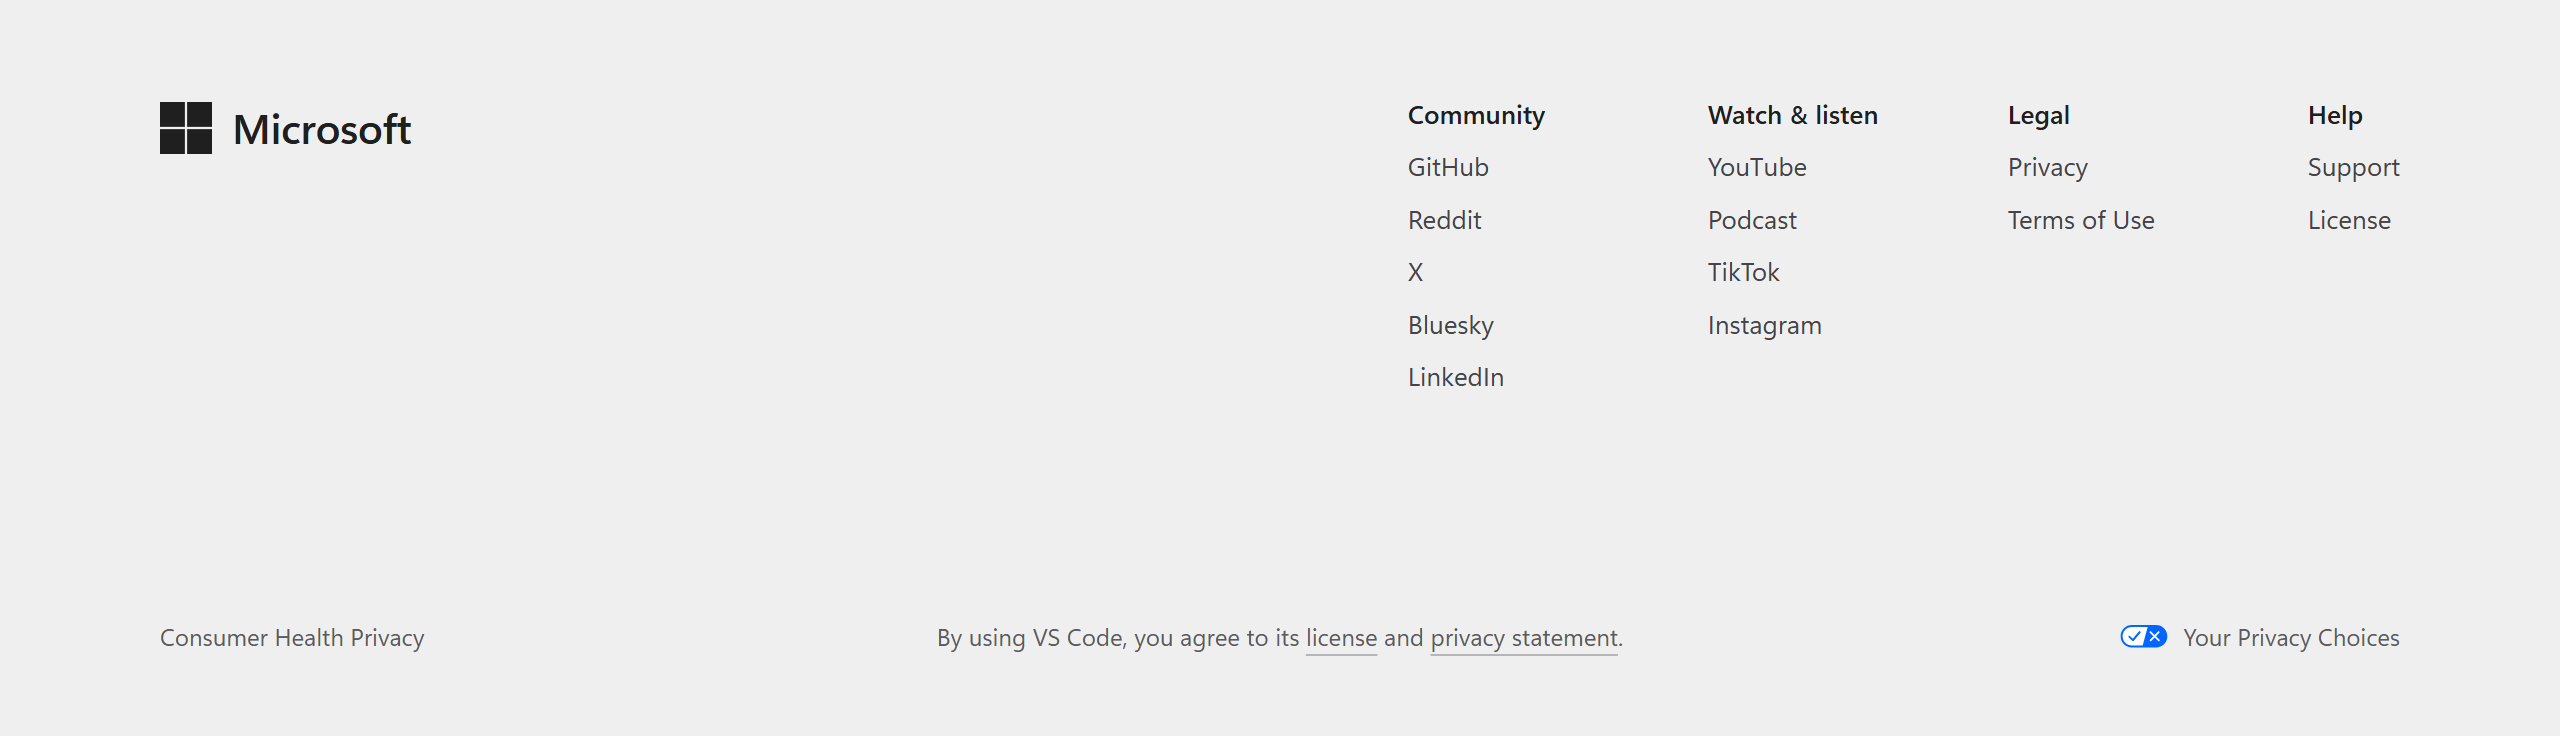
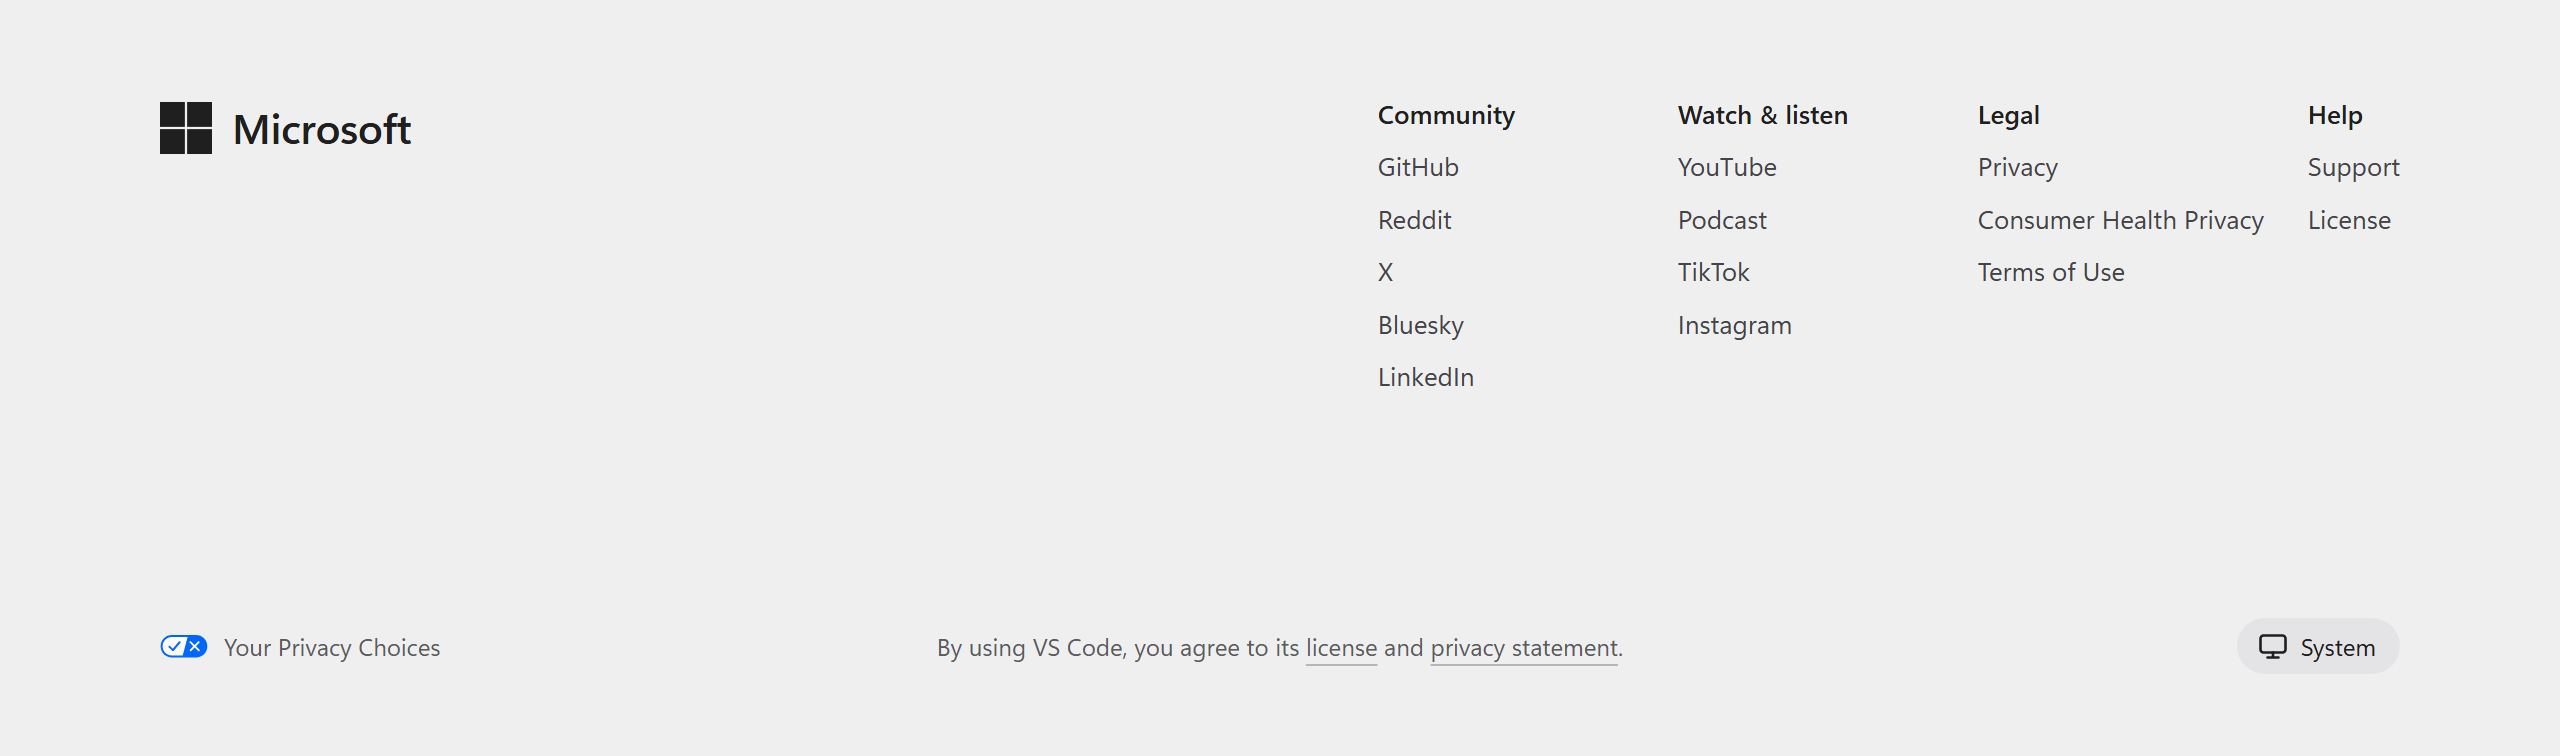
Ready the theme menu for handoff
AGENTS.md now covers the theme menu: how it works, recording the site's
theme setup, adding the head script and theme.js, sharing one setting
with any existing theme control, mapping dark colours, what to do if the
site has no dark styles yet, and theme checks in the checklist. The
README describes the theme menu as part of the design. Reference images
are re-rendered, with two new ones showing the menu open. The
work-in-progress and stop notes are gone.

diff --git a/AGENTS.md b/AGENTS.md
@@ -1,21 +1,32 @@
 # Agent instructions: replace the VS Code website footer
 
-> **Stop if you are on branch `theme-switcher`.** It adds a theme menu that these instructions do not cover yet. Use the `main` branch.
-
 Your task is to replace the footer on the VS Code website (code.visualstudio.com) with the footer in this repository. Work in the website's codebase. Use this repository as the reference.
 
-**Requirement: the footer's background colour and text colour must match the existing website.** The colours in `footer.css` are placeholders from the design mockups. You will look up the site's real colours in step 2 and apply them in step 5.
+The new footer includes a **theme menu** (System, Light, Dark) in its bottom-right corner. The menu sets the theme for the whole site, not only the footer.
+
+**Requirement: the footer's background colour and text colour must match the existing website.** The colours in `footer.css` are placeholders from the design mockups. You will look up the site's real colours in step 2 and apply them in step 6.
 
 ## What is in this repository
 
 | File | Use |
 | --- | --- |
-| `footer.html` | The new footer markup. Copy only the `<footer>` element between the `FOOTER START` and `FOOTER END` comments. The rest of the file is a demo page. |
-| `footer.css` | Every style the footer needs: colour and font tokens, desktop layout, and mobile layout (`@media (max-width: 760px)`). |
-| `images/desktop.png`, `images/mobile.png` | The layout to match, at 1280 px and 390 px. The colours in these images are placeholders; use the site's colours (steps 2 and 5). |
+| `footer.html` | The new footer markup. Copy only the `<footer>` element between the `FOOTER START` and `FOOTER END` comments. The one-line `<script>` in its `<head>` is also part of the footer (step 5). The rest of the file is a demo page. |
+| `footer.css` | Every style the footer needs: colour and font tokens (light and dark), desktop layout, mobile layout (`@media (max-width: 760px)`) and the theme menu. |
+| `theme.js` | The theme menu: saves the choice, applies it to the page, and runs the menu. |
+| `images/desktop.png`, `images/mobile.png` | The layout to match, at 1280 px and 390 px. The colours in these images are placeholders; use the site's colours (steps 2 and 6). |
+| `images/theme-menu-desktop.png`, `images/theme-menu-mobile.png` | The same with the theme menu open. |
 | `images/current-footer.png` | The footer you are replacing, so you can recognise it. |
 
-The footer needs no JavaScript. The mobile groups are native `<details>` / `<summary>` elements.
+Only the theme menu needs JavaScript. The mobile link groups are native `<details>` / `<summary>` elements.
+
+## How the theme menu works
+
+- The choice is saved in `localStorage` under the key `vscode-theme`, as `light` or `dark`. System is the default and saves nothing.
+- Light and Dark set `data-theme="light"` or `data-theme="dark"` on `<html>`. System removes the attribute, so the visitor's OS setting (`prefers-color-scheme`) decides.
+- A one-line script in `<head>` applies a saved choice before the page paints, so a visitor who chose Dark never sees a light flash.
+- The menu follows the WAI-ARIA menu button pattern. Enter, Space or an arrow key opens it; the arrows and Home/End move; Enter picks; Escape closes it and returns focus to the button. A click elsewhere also closes it.
+- When the choice changes in one tab, other open tabs follow.
+- Without JavaScript, the menu stays hidden.
 
 ## Steps
 
@@ -30,7 +41,7 @@ The footer appears on every page, so it is most likely in a shared layout, templ
 
 Read the whole footer before you change anything, including its styles, any scripts it loads, and how the template builds it. Compare it with `images/current-footer.png`.
 
-### 2. Record the site's background and text colours
+### 2. Record the site's colours and theme setup
 
 Do this before you change anything, while the current footer is still on the page. Run the site locally, open a page, and record the computed values (from the browser's developer tools or `getComputedStyle`) for:
 
@@ -38,9 +49,14 @@ Do this before you change anything, while the current footer is still on the pag
 - the current footer's **text colour**, for its main text and for its links
 - the current footer's **font family**
 
-Then find where each value comes from in the code: a CSS variable, a design token, a Sass variable or a hard-coded value. Write down both the value and its source. You will apply them in step 5 and compare against them at the end.
+Then find where each value comes from in the code: a CSS variable, a design token, a Sass variable or a hard-coded value. Write down both the value and its source. You will apply them in step 6 and compare against them at the end.
 
 If the footer has no background of its own, use the page background behind it. If the site's colours differ by page, use the values from the home page and note the difference in your summary.
+
+Also find out how the site handles themes today:
+
+- Does it already have dark styles or a dark palette? If so, record the dark background and text colours too, and how dark mode is switched on (an attribute or class on `<html>` or `<body>`, a media query, or both).
+- Does anything else on the site already offer a theme choice, such as a theme menu in the navigation? If so, record how it stores the choice (storage key and values) and how it applies it.
 
 ### 3. Record what the current footer wires up
 
@@ -55,46 +71,74 @@ Before you remove anything, list the behaviour the current footer has beyond pla
 
 Replace the current footer with the markup from `footer.html`:
 
-- Translate it into the site's template language or component format if needed. Keep the element structure, class names and order.
-- Keep both link blocks. `.ft-desk` is shown on desktop and `.ft-mob` on mobile; CSS hides the other one. Do not merge them, and keep their links identical.
+- Translate it into the site's template language or component format if needed. Keep the element structure, class names, attributes and order.
+- Keep both link blocks. `.ft-desk` is shown on desktop and `.ft-mob` on mobile; CSS hides the other one. Do not merge them. They differ on purpose in one place: on desktop, Consumer Health Privacy is in the Legal column; on mobile it is its own row under the groups.
+- Keep the theme menu markup (`.ft-theme`) exactly, including the `hidden` attributes, `role`, `aria-*` and `data-theme-option` attributes. `theme.js` depends on them.
 - The column headings are `<h3>`. If that breaks the page's heading outline, change the level (for example to `<h2>`). The styles target the `.ft-h` class, so the look does not change.
 - If the links are generated from data (a config file or CMS), generate the new groups from the same data instead of hard-coding them.
 
-### 5. Add the styles
+### 5. Add the theme script
+
+- Put the one-line script from the `<head>` of `footer.html` into the `<head>` of every page, before any stylesheet, so it runs before the page paints.
+- Load `theme.js` on every page, after the footer markup or with `defer`, the way the site loads its other scripts.
+- **If the site already has a theme choice** (step 2), the footer menu and the existing control must share one setting: use the same storage key, values and attribute in `theme.js`, the `<head>` script and the dark selectors in `footer.css`. A change in one control must show in the other, including on the same page.
+- **If the site already switches dark mode another way** (for example a class on `<body>`), change `applyAttr` in `theme.js`, the `<head>` script and the dark selectors in `footer.css` to that mechanism, consistently.
+
+### 6. Add the styles
 
 - Add `footer.css` to the site's stylesheet pipeline the way other component styles are added.
 - Remove the current footer's styles, but only rules that nothing else on the site uses. Search before deleting.
-- Every class starts with `ft-` and every rule is scoped under `.ft`. Search the site for existing `ft-` classes and `--ft-` custom properties. If any collide, rename the footer's prefix consistently in both files.
+- Every class starts with `ft-` and every rule is scoped under `.ft`. Search the site for existing `ft-` classes and `--ft-` custom properties. If any collide, rename the footer's prefix consistently in `footer.html`, `footer.css` and `theme.js`.
 - **Colours and font.** Apply the values you recorded in step 2 by setting the tokens at the top of `footer.css`. Reference the site's own variable or token wherever one exists, so the footer follows the site if its colours change; copy the value only when there is none.
   - `--ft-bg`: **required.** The footer background from step 2.
   - `--ft-ink`: **required.** The footer text colour from step 2. Used for headings, the wordmark and the mobile rows.
   - `--ft-ink-soft`, `--ft-muted`: the current footer's link and secondary text colours from step 2
   - `--ft-accent`, `--ft-focus`: the site's link hover and focus colours
   - `--ft-rule`, `--ft-rule-strong`: the site's divider and border colours
+  - `--ft-ctl-bg`, `--ft-ctl-on`, `--ft-ctl-ink`, `--ft-ctl-ink-on`, `--ft-menu-bg`: the theme button and menu. Use the site's control or button colours if it has them, otherwise keep these values.
   - `--ft-sans`: the site's font stack
 
   Keep the sizes, weights and spacing from `footer.css`; only the colours and font family change. Check that text still meets WCAG AA contrast (4.5:1) against the new background.
+- **Dark colours.** The dark blocks in `footer.css` set the same tokens for the dark theme. If the site has a dark palette (step 2), map each token to its dark value. If it does not, keep the values in `footer.css` and say so in your summary.
 - **Breakpoint.** The layout switches at 760 px. If the site has a standard breakpoint close to that, you may use it. Check that the desktop columns still fit at the narrowest desktop width.
 
-### 6. Do not change
+### 7. Do not change
 
 - Your Privacy Choices and Consumer Health Privacy stay visible at every width. On mobile they are separate rows below the groups, never inside a collapsed group.
-- The Your Privacy Choices icon keeps its official artwork and colours (`--pc-blue`, `--pc-light`). Do not map these to site colours.
+- The Your Privacy Choices icon keeps its official artwork and colours (`--pc-blue`, `--pc-light`) in both themes. Do not map these to site colours.
 - The license agreement line is shown on desktop and hidden on mobile. This was decided on purpose, not by mistake.
-- The groups, their order and the links inside them, unless step 3 adds an item.
+- The groups, their order and the links inside them, unless step 3 adds an item. The Legal column reads Privacy, Consumer Health Privacy, Terms of Use.
+- The theme menu: three options (System, Light, Dark) with System as the default; on desktop at the right end of the bottom line, on mobile as the last row with the button on the left; the menu opens upward.
+
+### 8. If the rest of the site has no dark styles
+
+The theme menu switches `data-theme` on `<html>`, and the footer responds. If the rest of the site has no dark styles yet, only the footer will change when a visitor picks Dark. Do not build a dark theme for the rest of the site as part of this task. Say clearly in your summary that the site needs dark styles before the menu is useful, and list where the site's main colours are defined.
 
 ## Check your work
 
 Run the site locally and check each item:
 
-- [ ] At 1280 px, the layout matches `images/desktop.png`: logo on the left, four columns on the right, and Consumer Health Privacy, the agreement and Your Privacy Choices on one line at the bottom.
-- [ ] At 390 px, the layout matches `images/mobile.png`: logo, four collapsed groups, then the Consumer Health Privacy and Your Privacy Choices rows. There is no agreement line.
+**Layout**
+
+- [ ] At 1280 px, the layout matches `images/desktop.png`: logo on the left, four columns on the right, and Your Privacy Choices, the agreement and the theme button on one line at the bottom.
+- [ ] At 390 px, the layout matches `images/mobile.png`: logo, four collapsed groups, then the Consumer Health Privacy and Your Privacy Choices rows, then the theme button on the left. There is no agreement line.
 - [ ] At widths between 761 px and 1024 px, the desktop columns do not overlap the logo or wrap badly.
-- [ ] At 320 px, there is no horizontal scrolling.
+- [ ] At 320 px, there is no horizontal scrolling, and the open theme menu stays on screen.
+
+**Behaviour**
+
 - [ ] Each mobile group opens and closes with a click, a tap, and Enter or Space. Its chevron turns.
-- [ ] You can reach every link with Tab, and the focus ring is visible.
+- [ ] You can reach every link and the theme button with Tab, and the focus ring is visible.
+- [ ] The theme menu opens upward, as in `images/theme-menu-desktop.png` and `images/theme-menu-mobile.png`, with a check next to the current theme.
+- [ ] Picking Light or Dark changes the theme at once, and the button shows the new choice. Picking System follows the OS setting.
+- [ ] After a reload, the saved choice is still applied, with no flash of the other theme.
+- [ ] The menu works with the keyboard: arrows, Home/End, Enter, and Escape (which returns focus to the button). A click elsewhere closes it.
+- [ ] If the site already had a theme control, it and the footer menu stay in sync.
+
+**Colours and content**
+
 - [ ] The footer's computed background colour and text colour are the same as the values you recorded in step 2.
-- [ ] Link colours and the font match the rest of the site, and all text meets WCAG AA contrast.
+- [ ] Link colours and the font match the rest of the site, and all text meets WCAG AA contrast in both themes.
 - [ ] Your Privacy Choices still opens the consent experience it opened before, if it opened one.
 - [ ] Every link goes to the same place as before, or to its new destination in `footer.html`.
 - [ ] No old footer markup, styles or scripts remain, and nothing else on the site broke.
@@ -106,6 +150,8 @@ Summarise for the reviewer:
 
 - which files you changed
 - the background colour, text colour and font you recorded in step 2, with their sources in the code, and which token each one went into
+- how the site handled themes before (step 2), and how you connected the theme menu to it (step 5)
+- whether the rest of the site has dark styles (step 8)
 - any URL or wiring you carried over from the old footer (step 3)
 - any deviation from this repository, and why
 - anything you could not verify

diff --git a/README.md b/README.md
@@ -1,34 +1,25 @@
 # VS Code website footer
 
-> **Branch `theme-switcher`: work in progress, not the handoff yet.** This branch adds a theme menu (System, Light, Dark) to the footer. The handoff the builder uses is on `main`.
-
-## Theme menu (this branch)
-
-- **Desktop bottom line:** Your Privacy Choices on the left, the license agreement in the centre, the theme menu on the right.
-- **Legal column (desktop):** Privacy, Consumer Health Privacy, Terms of Use. On mobile, Consumer Health Privacy stays an always-visible row.
-- **Mobile:** the theme menu button is the last row, on the left.
-- **The menu:** a button shows the current theme. Clicking it opens a menu above it with System, Light and Dark, the current one checked. It works with the keyboard (arrows, Home/End, Enter, Escape) and closes on a click elsewhere.
-- **How it works:** `theme.js` saves the choice in `localStorage` (`vscode-theme`) and sets `data-theme="light"` or `"dark"` on `<html>`; System removes the attribute so the OS decides. A one-line script in `<head>` applies a saved choice before first paint. Changes sync across tabs. Without JavaScript the menu stays hidden.
-
-The new footer for the VS Code website (code.visualstudio.com), ready to replace the current one. It has a desktop layout and a mobile layout, and takes on the site's own colours and type.
+The new footer for the VS Code website (code.visualstudio.com), ready to replace the current one. It has a desktop layout and a mobile layout, takes on the site's own colours and type, and includes a theme menu (System, Light, Dark).
 
 **Replacing the footer with a coding agent?** Point the agent at [AGENTS.md](AGENTS.md). It has step-by-step instructions and a checklist.
 
 | Desktop | Mobile |
 | --- | --- |
 | ![Footer at desktop width](images/desktop.png) | ![Footer at mobile width](images/mobile.png) |
+| ![Theme menu open at desktop width](images/theme-menu-desktop.png) | ![Theme menu open at mobile width](images/theme-menu-mobile.png) |
 
 The footer it replaces: [current footer](images/current-footer.png).
 
 ## Viewing
 
-Open `index.html` in a browser. It shows the footer at 1280 px and at 390 px side by side. No build step or server is needed. Open `footer.html` on its own and resize the window to see the layout switch at 760 px.
+Open `index.html` in a browser. It shows the footer at 1280 px and at 390 px side by side, and the theme menu works in both. No build step or server is needed. Open `footer.html` on its own and resize the window to see the layout switch at 760 px.
 
 ## Files
 
 ```
 footer.html   the footer markup, between FOOTER START / FOOTER END comments
-footer.css    all footer styles: colour and font tokens, desktop layout, mobile layout
+footer.css    all footer styles: colour and font tokens, desktop layout, mobile layout, theme menu
 theme.js      the theme menu: saves the choice and applies it
 index.html    preview page (desktop and mobile frames); not part of the footer
 images/       reference renders of the new footer, and a screenshot of the current one
@@ -42,27 +33,35 @@ AGENTS.md     instructions for replacing the current footer on the site
 **Desktop (wider than 760 px)**
 
 - The Microsoft logo and wordmark sit on the left.
-- Four link columns sit toward the right, each 150 px wide:
+- Four link columns sit toward the right:
   - **Community:** GitHub, Reddit, X, Bluesky, LinkedIn
   - **Watch & listen:** YouTube, Podcast, TikTok, Instagram
-  - **Legal:** Privacy, Terms of Use
+  - **Legal:** Privacy, Consumer Health Privacy, Terms of Use
   - **Help:** Support, License
 - One line runs along the bottom, 112 px below the columns:
-  - **Consumer Health Privacy** on the left, under the logo
+  - **Your Privacy Choices** with its official icon on the left
   - the license agreement ("By using VS Code, you agree to its license and privacy statement.") centred
-  - **Your Privacy Choices** with its official icon on the right
+  - the **theme menu** button on the right
 
 **Mobile (760 px and narrower)**
 
 - The logo comes first.
 - The four groups become expandable rows, separated by thin rules. They use native `<details>` / `<summary>` elements, so no script is needed.
 - **Consumer Health Privacy** and **Your Privacy Choices** follow as their own rows. They are always visible, never inside a collapsed group.
+- The theme menu button is the last row, on the left.
 - The license agreement line is not shown on mobile.
+
+**Theme menu**
+
+- A button shows the current theme's icon and name. Clicking it opens a menu above it with **System**, **Light** and **Dark**, the current one checked, like the theme menu in the site navigation. On mobile the menu opens from the left edge so it stays on screen.
+- System is the default and follows the visitor's OS setting. The choice is saved in the browser and applied before the page paints on the next visit.
+- It works with the keyboard: arrows and Home/End move, Enter picks, Escape closes. A click elsewhere also closes it.
+- The menu sets the theme for the whole site through `data-theme` on `<html>`. The rest of the site needs dark styles for Dark to change more than the footer.
 
 **Type and colour**
 
 - The footer's background colour and text colour must match the existing website, and it uses the site's font. The agent reads these from the site when it builds the footer (see AGENTS.md, step 2).
-- Every colour and the font are tokens at the top of `footer.css`. The values there match the mockups and the images in this repo; when the footer goes into the site, they are replaced with the site's own values.
+- Every colour and the font are tokens at the top of `footer.css`, with dark values beside them. The values there match the mockups and the images in this repo; when the footer goes into the site, they are replaced with the site's own values.
 - Sizes are part of the design: column headings are 13 px semibold, links are 13 px on desktop and 14 px inside the mobile groups, and small print is 12 px.
 - The Your Privacy Choices icon keeps its official blue and white.
 
@@ -70,4 +69,5 @@ AGENTS.md     instructions for replacing the current footer on the site
 
 - **Privacy links stay visible.** Your Privacy Choices (California's CCPA opt-out) and Consumer Health Privacy (Washington's My Health My Data Act) must stay visible on every page and at every width. Keep the official Your Privacy Choices icon unchanged.
 - **Agreement line on mobile.** The license agreement line is hidden on mobile by design. Confirm that with Microsoft privacy or legal before launch.
+- **Dark theme.** The theme menu only pays off once the rest of the site has dark styles. The dark colours in `footer.css` are placeholders until the site's dark palette exists.
 - **Social links.** Check the social URLs against the live footer. Some were written by hand.
